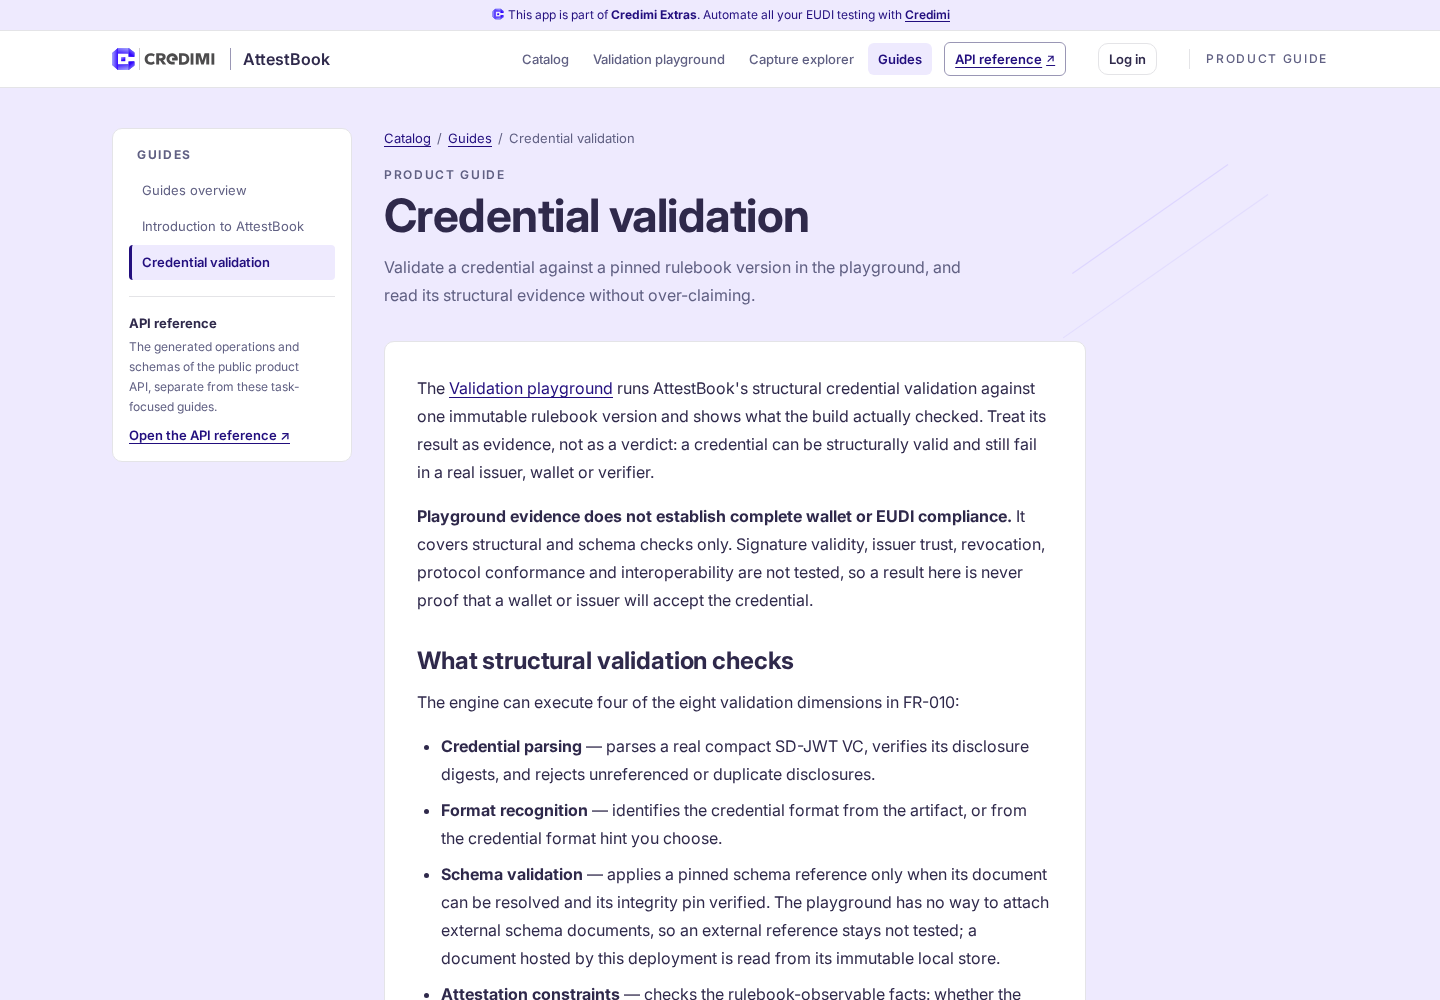
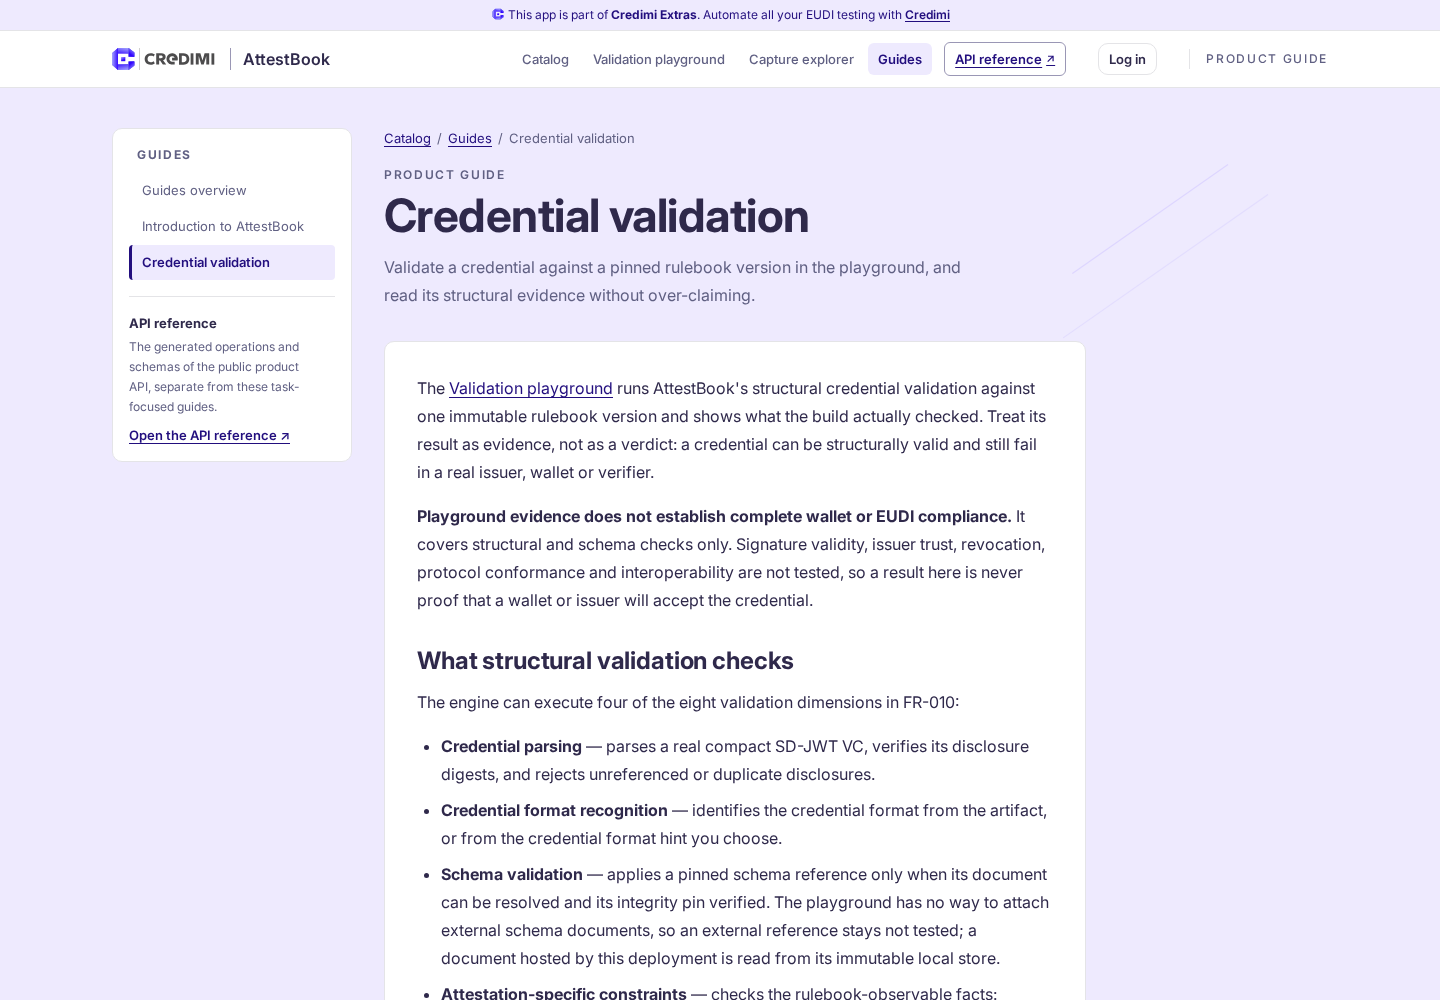
docs(guide): align credential validation labels with the report
Use the exact dimension, section and credential-fact titles the rendered report shows, and derive the tested dimension titles from the shared catalogue so the guide cannot drift from the UI. Add the format-hint request shape and refresh the page evidence.

Changed region(s): [[0.3125, 0.806, 0.7188, 0.868], [0.3438, 0.992, 0.7188, 1.0]]

diff --git a/ui/src/guide.test.tsx b/ui/src/guide.test.tsx
@@ -2,12 +2,15 @@ import { render, screen, within } from '@testing-library/react'
 import userEvent from '@testing-library/user-event'
 import { afterEach, describe, expect, test, vi } from 'vitest'
 
+import { ValidationReport } from './components/ValidationReport'
+import { EVALUATION_SUPPORT } from './compatibility'
 import { GuideMarkdown } from './GuideMarkdown'
 import { GuideEntryPage, GuideIndexPage } from './GuidePage'
 import { findGuide, GUIDE_DOCUMENTS } from './guide'
 import { parseInline, parseMarkdown, safeLinkHref } from './markdown'
 import { isClientRoute } from './router'
 import { expectNoA11yViolations } from './test/a11y'
+import { makeValidationResult } from './test/fixtures'
 
 afterEach(() => {
   window.history.replaceState({}, '', '/')
@@ -419,13 +422,16 @@ describe('product guide views', () => {
       expect(labels.length).toBeGreaterThan(0)
       expect(labels[0]).toBeVisible()
     }
-    for (const dimension of [
-      'Cryptographic verification',
-      'Issuer trust',
-      'Protocol conformance',
-      'End-to-end interoperability',
-    ]) {
-      expect(within(article).getAllByText(dimension, { exact: true }).length).toBeGreaterThan(0)
+    const untestedTitles = EVALUATION_SUPPORT.filter((dimension) =>
+      [
+        'cryptographic_verification',
+        'issuer_trust',
+        'protocol_conformance',
+        'interoperability',
+      ].includes(dimension.id),
+    ).map((dimension) => dimension.title)
+    for (const title of untestedTitles) {
+      expect(within(article).getAllByText(title, { exact: true }).length).toBeGreaterThan(0)
     }
     expect(document.title).toBe('Credential validation · AttestBook')
   })
@@ -491,6 +497,46 @@ describe('credential validation guide links', () => {
     expect(markdown).toContain('](/playground)')
     expect(markdown).toContain('](/docs)')
     expect(markdown).toContain('](/openapi.json)')
+  })
+})
+
+describe('credential validation guide accuracy', () => {
+  test('names every validation dimension with its report title', () => {
+    const markdown = findGuide('credential-validation')?.markdown ?? ''
+
+    for (const dimension of EVALUATION_SUPPORT) {
+      expect(markdown, dimension.id).toContain(`**${dimension.title}**`)
+    }
+  })
+
+  test('names only report sections and facts the rendered report really shows', () => {
+    const markdown = findGuide('credential-validation')?.markdown ?? ''
+    const reportHeadings = [
+      'Overall result',
+      'Validation dimensions',
+      'Violations',
+      'Limitations of this result',
+      'Schema references',
+    ]
+    const resultFacts = [
+      'Snapshot digest (SHA-256)',
+      'Credential format',
+      'Credential type (vct)',
+      'Disclosures',
+      'Key binding present',
+    ]
+
+    render(<ValidationReport result={makeValidationResult()} onExport={vi.fn()} />)
+
+    for (const heading of reportHeadings) {
+      expect(markdown).toContain(`**${heading}**`)
+      expect(screen.getByRole('heading', { level: 2, name: heading })).toBeInTheDocument()
+    }
+    for (const fact of resultFacts) {
+      expect(markdown).toContain(`**${fact}**`)
+      expect(screen.getByText(fact)).toBeInTheDocument()
+    }
+    expect(markdown).not.toContain('**Credential facts**')
   })
 })
 

diff --git a/ui/e2e/guide.spec.ts b/ui/e2e/guide.spec.ts
@@ -211,7 +211,7 @@ test('opens the credential validation guide and follows its playground link', as
   await expect(article.getByText('Inconclusive', { exact: true }).first()).toBeVisible()
   for (const dimension of [
     'Cryptographic verification',
-    'Issuer trust',
+    'Issuer and trust-policy validation',
     'Protocol conformance',
     'End-to-end interoperability',
   ]) {

diff --git a/docs/guides/credential-validation.md b/docs/guides/credential-validation.md
@@ -14,23 +14,23 @@ The engine can execute four of the eight validation dimensions in FR-010:
 
 - **Credential parsing** — parses a real compact SD-JWT VC, verifies its
   disclosure digests, and rejects unreferenced or duplicate disclosures.
-- **Format recognition** — identifies the credential format from the artifact,
-  or from the credential format hint you choose.
+- **Credential format recognition** — identifies the credential format from the
+  artifact, or from the credential format hint you choose.
 - **Schema validation** — applies a pinned schema reference only when its
   document can be resolved and its integrity pin verified. The playground has no
   way to attach external schema documents, so an external reference stays not
   tested; a document hosted by this deployment is read from its immutable local
   store.
-- **Attestation constraints** — checks the rulebook-observable facts: whether
-  the format is supported, the `attestationLoS` and `bindingType` vocabulary,
-  and whether an issuer-signed `cnf` key-binding entry is present.
+- **Attestation-specific constraints** — checks the rulebook-observable facts:
+  whether the format is supported, the `attestationLoS` and `bindingType`
+  vocabulary, and whether an issuer-signed `cnf` key-binding entry is present.
 
 The other four dimensions are deliberately outside this run:
 
 - **Cryptographic verification** (`NOT_TESTED`) — the issuer signature, the
   key-binding JWT proof and status-list checks.
-- **Issuer trust** (`NOT_TESTED`) — trust anchors, certificate chains and issuer
-  policy.
+- **Issuer and trust-policy validation** (`NOT_TESTED`) — trust anchors,
+  certificate chains and issuer policy.
 - **Protocol conformance** (`NOT_APPLICABLE`) — any OpenID4VCI, OpenID4VP or
   other exchange; a single artifact contains no protocol exchange.
 - **End-to-end interoperability** (`NOT_APPLICABLE`) — a real wallet, issuer or
@@ -90,7 +90,7 @@ credential size first; an incomplete request sends nothing. The real
 version, and the page shows the returned report rather than a mock.
 
 The page sends only the selected rulebook id, version, attestation type and the
-credential (plus the format hint when you chose one):
+credential:
 
 ```json
 {
@@ -101,14 +101,32 @@ credential (plus the format hint when you chose one):
 }
 ```
 
-A safe error message is shown for a `400`, `413` or `503` response, and editing
-or retrying never re-sends a stale result.
+Choosing a format hint sends the artifact as a two-member `credential` object
+instead of a bare string:
+
+```json
+{
+  "rulebookId": "<selected rulebook id>",
+  "rulebookVersion": "<selected version>",
+  "attestationType": "<selected attestation type>",
+  "credential": {
+    "format": "dc+sd-jwt",
+    "value": "<the synthetic compact SD-JWT VC you supplied>"
+  }
+}
+```
+
+A safe error message is shown for an API error response such as `400`, `413` or
+`503`, and editing or retrying never re-sends a stale result.
 
 ## Read the overall result and the dimensions
 
-**Overall result** shows the aggregate status, its plain-language explanation
-and the pinned rulebook version with its recomputed content digest. **Validation
-dimensions** lists all eight FR-010 dimensions in normative order, each with:
+**Overall result** shows the aggregate status, its plain-language explanation,
+the pinned rulebook version, the **Snapshot digest (SHA-256)**, and the
+credential facts **Credential format**, **Credential type (vct)**,
+**Disclosures** and **Key binding present**. No claim value is shown.
+**Validation dimensions** lists all eight FR-010 dimensions in normative order,
+each with:
 
 - its **Status**;
 - its **Execution** — whether an actual check ran;
@@ -129,8 +147,6 @@ Then read the supporting sections:
   interoperability where they apply.
 - **Schema references** — the pinned version's references with their integrity
   pin, detected kind and whether this run applied them.
-- **Credential facts** — format, `vct`, disclosure count and key-binding
-  presence. No claim value is shown.
 
 ## What each status means
 
@@ -179,8 +195,9 @@ curl --fail --silent \
   'http://127.0.0.1:3000/api/v1/credentials/validate'
 ```
 
-The request body uses the fields shown above; optional `schemaDocuments` supply
-the exact bytes of external schema references that the playground cannot attach.
+The request body uses the fields shown above, with the bare or two-member
+`credential` form; optional `schemaDocuments` supply the exact bytes of external
+schema references that the playground cannot attach.
 Every operation and schema, including the response envelope and error codes, is
 in the [API reference](/docs), generated from the canonical [OpenAPI
 document](/openapi.json).
